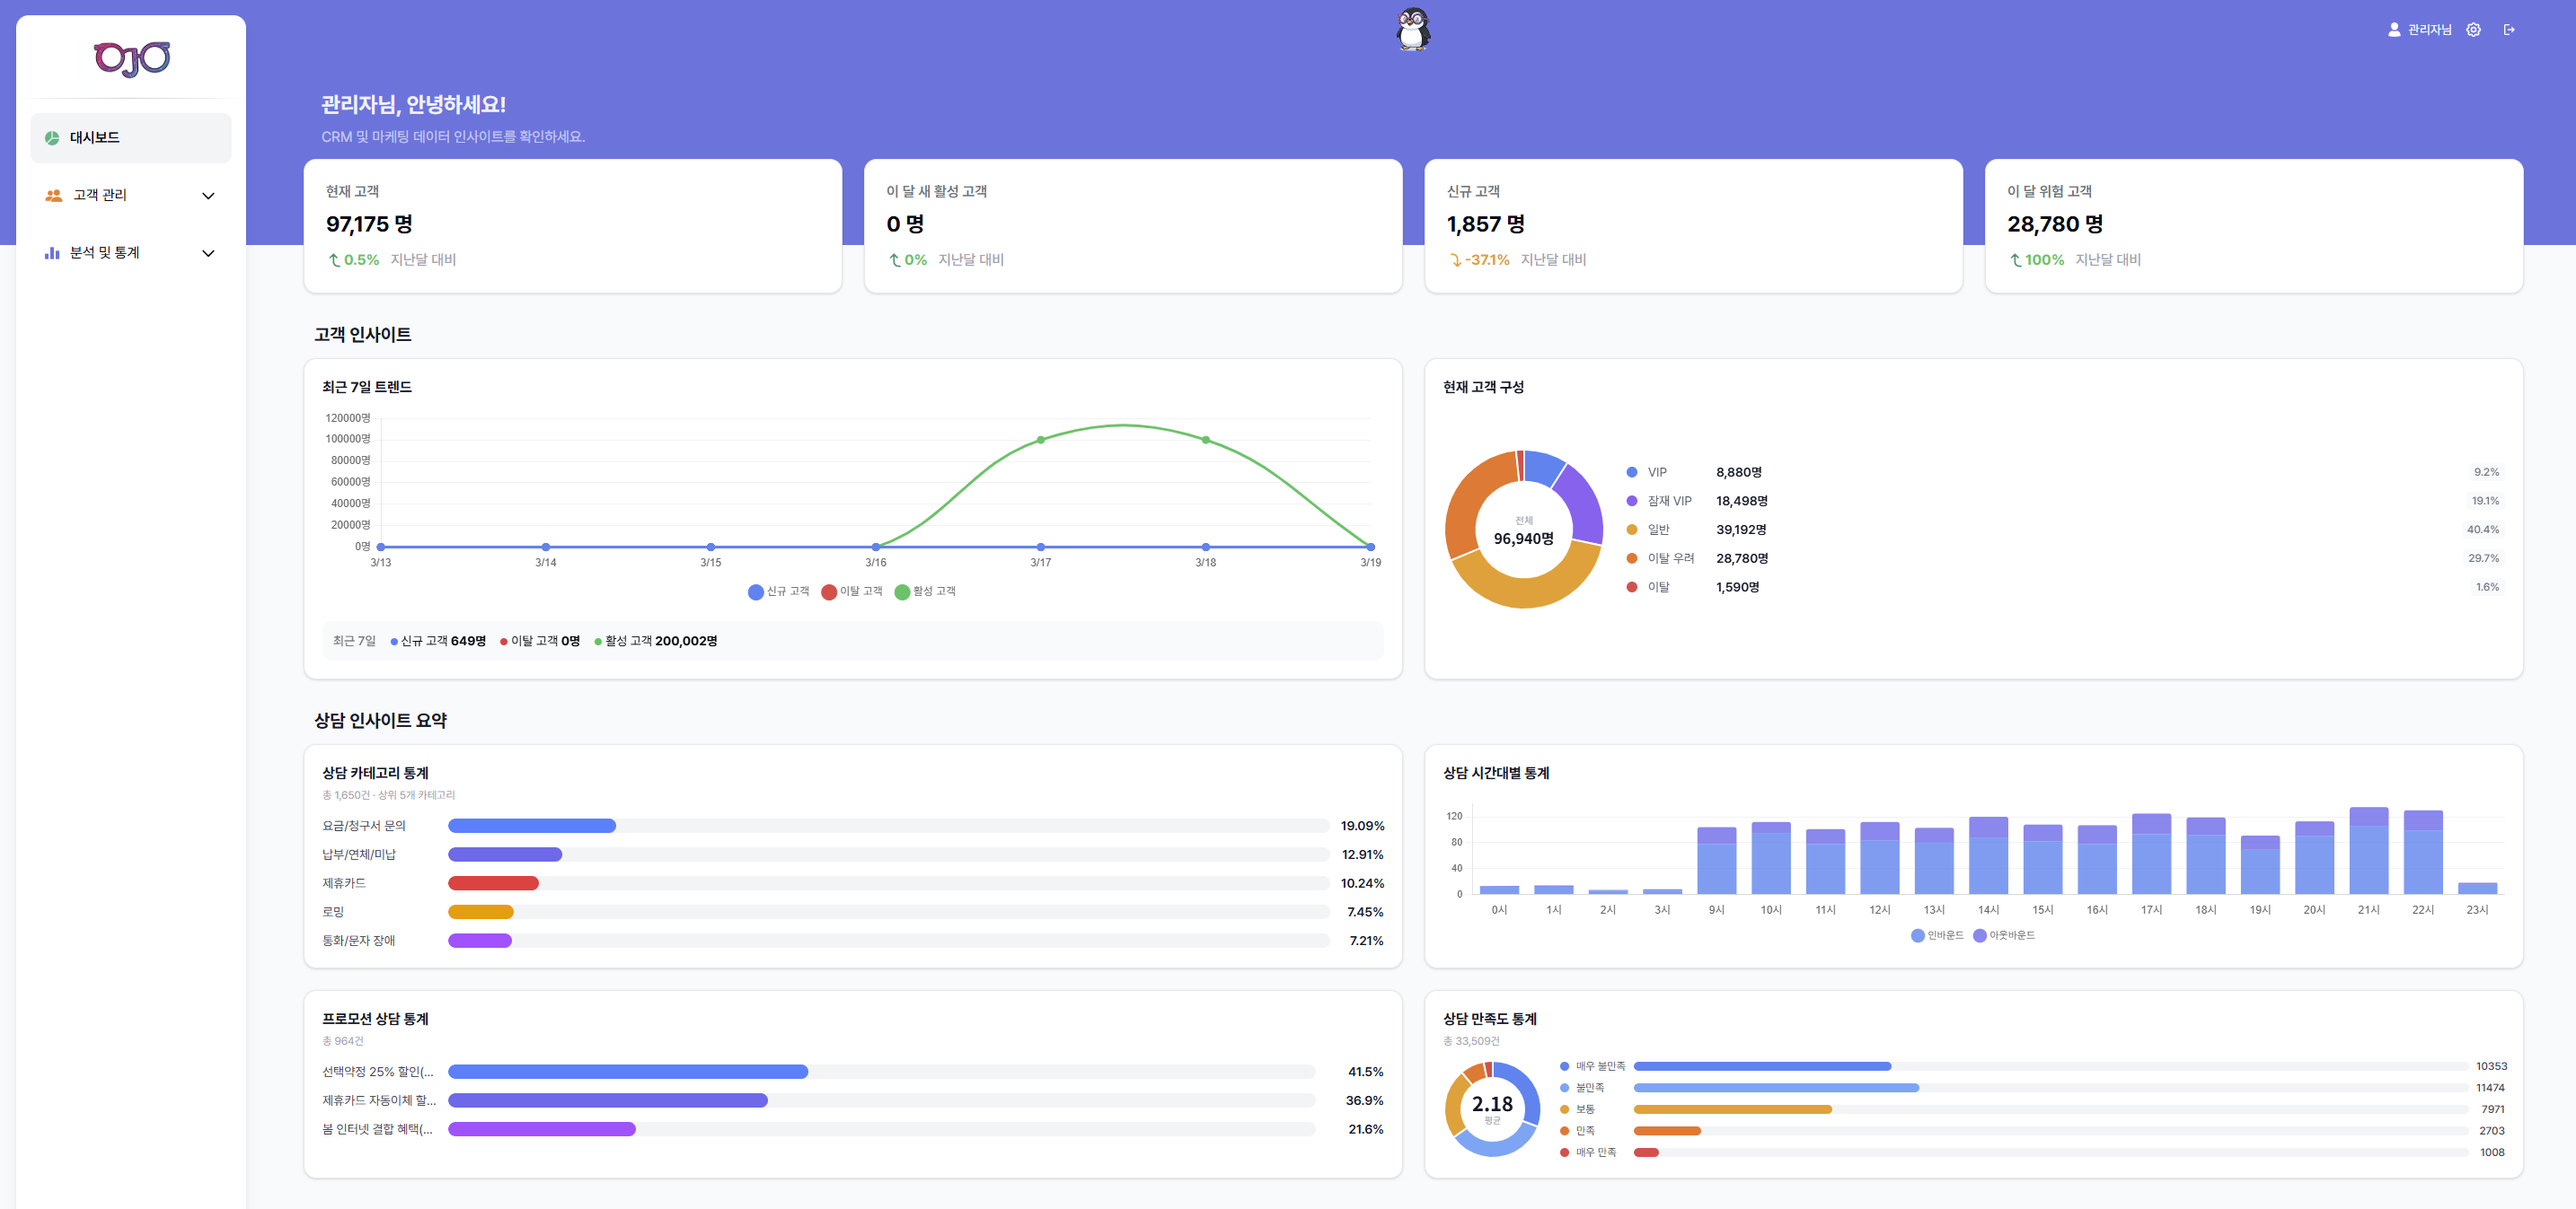
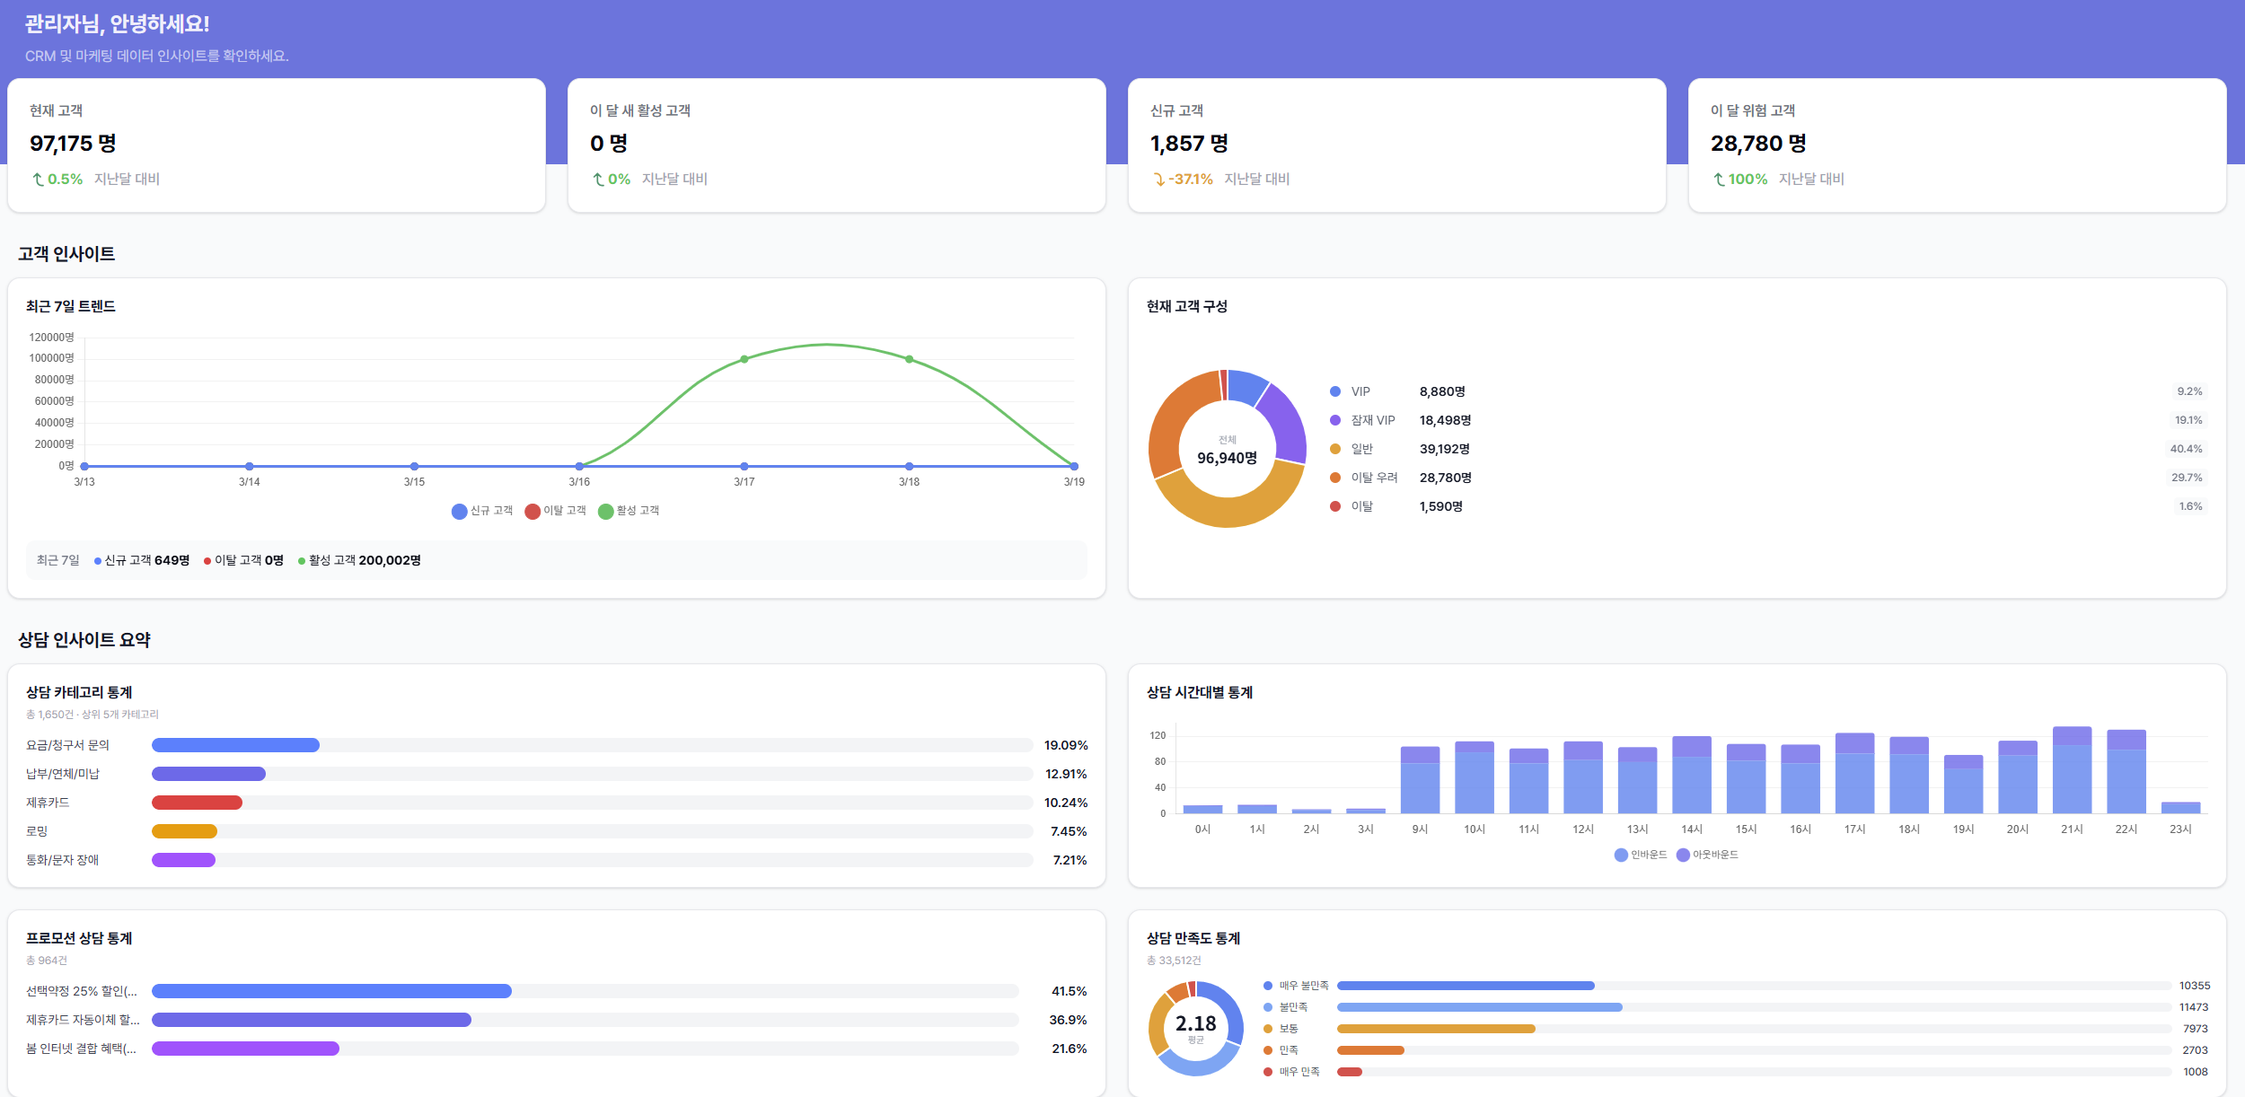
fix:세그먼트 필터링 에러 해결

diff --git a/src/components/auth/AuthLayout.tsx b/src/components/auth/AuthLayout.tsx
@@ -34,13 +34,54 @@ const AuthLayout = ({ children, title, footer }: AuthLayoutProps) => {
       </div>
 
       {/* 오른쪽 영역 */}
-      <div className="hidden items-center justify-center rounded-tl-[80px] bg-gray-200 md:flex md:w-1/2">
-        <span className="text-lg text-gray-500"><img
+      {/* <div className="hidden items-center justify-center rounded-tl-[100px] bg-slate-50 p-12 md:flex md:w-1/2">
+        <div className="relative w-full max-w-[85%] transition-transform duration-500 hover:scale-[1.01]">
+          
+          <div className="absolute inset-0 z-0 scale-105 rounded-[40px] bg-gradient-to-br from-indigo-100/50 to-transparent opacity-60 blur-3xl" />
+          
+          <img
+            src={dashboard}
+            alt="dashboard"
+            // 2. CSS 수정: 이미지를 잘리지 않게 Contain하고, max-h-screen으로 높이 제한
+            className="relative z-10 h-auto w-full rounded-2xl border border-white/70 object-contain shadow-[0_30px_60px_rgba(0,0,0,0.12)]"
+          />
+        </div>
+      </div> */}
+      <div className="hidden items-center justify-center overflow-hidden rounded-tl-[100px] bg-slate-100 md:flex md:w-1/2">
+        <div className="relative h-full w-full">
+          <img
+            src={dashboard}
+            alt="dashboard overlay"
+            className="h-full w-full object-cover object-left-top transition-transform duration-700 hover:scale-105"
+          />
+          
+          <div className="absolute inset-0 bg-gradient-to-l from-transparent to-slate-200/20" />
+        </div>
+      </div>
+
+      {/* 입체감 */}
+      {/* <div className="hidden items-center justify-center rounded-tl-[100px] bg-slate-100 p-12 md:flex md:w-1/2">
+        <div className="relative w-full max-w-[90%] transition-transform duration-500 hover:scale-[1.02]">
+          <div className="absolute -inset-4 rounded-[40px] bg-gradient-to-tr from-indigo-100 to-transparent opacity-50 blur-2xl" />
+          
+          <img
+            src={dashboard}
+            alt="dashboard"
+            className="relative z-10 h-auto w-full rounded-2xl border border-white/50 object-contain shadow-[0_20px_50px_rgba(0,0,0,0.15)]"
+          />
+        </div>
+      </div> */}
+
+      {/* 기본 */}
+      {/* <div className="hidden items-center justify-center rounded-tl-[80px] bg-gray-200 md:flex md:w-1/2">
+        <span className="text-lg text-gray-500">
+          <img
               src={dashboard}
               alt="dashboard"
               className="h-auto w-full drop-shadow-lg"
-            /></span>
-      </div>
+            />
+        </span>
+      </div> */}
     </div>
   );
 };

diff --git a/src/pages/customers/components/CustomerFilter.tsx b/src/pages/customers/components/CustomerFilter.tsx
@@ -35,22 +35,22 @@ const getFrequencyColor = (val: string | null) => {
 
 const getSegmentLabel = (val: string | null) => {
   const map: Record<string, string> = {
-    vip: 'VIP',
-    potential_vip: '잠재 VIP',
-    normal: '일반',
-    churn_risk: '이탈 우려',
-    churned: '이탈',
+    VIP: 'VIP',
+    LOYAL: '잠재 VIP',
+    COMMON: '일반',
+    RISK: '이탈 우려',
+    LOST: '이탈',
   };
   return map[val || ''] || '';
 };
 
 const getSegmentColor = (val: string | null) => {
   const map: Record<string, string> = {
-    vip: 'bg-purple-100 text-purple-700 border-purple-300',
-    potential_vip: 'bg-indigo-100 text-indigo-700 border-indigo-300',
-    normal: 'bg-gray-100 text-gray-700 border-gray-300',
-    churn_risk: 'bg-orange-100 text-orange-700 border-orange-300',
-    churned: 'bg-red-100 text-red-700 border-red-300',
+    VIP: 'bg-purple-100 text-purple-700 border-purple-300',
+    LOYAL: 'bg-indigo-100 text-indigo-700 border-indigo-300',
+    COMMON: 'bg-gray-100 text-gray-700 border-gray-300',
+    RISK: 'bg-orange-100 text-orange-700 border-orange-300',
+    LOST: 'bg-red-100 text-red-700 border-red-300',
   };
   return map[val || ''] || '';
 };
